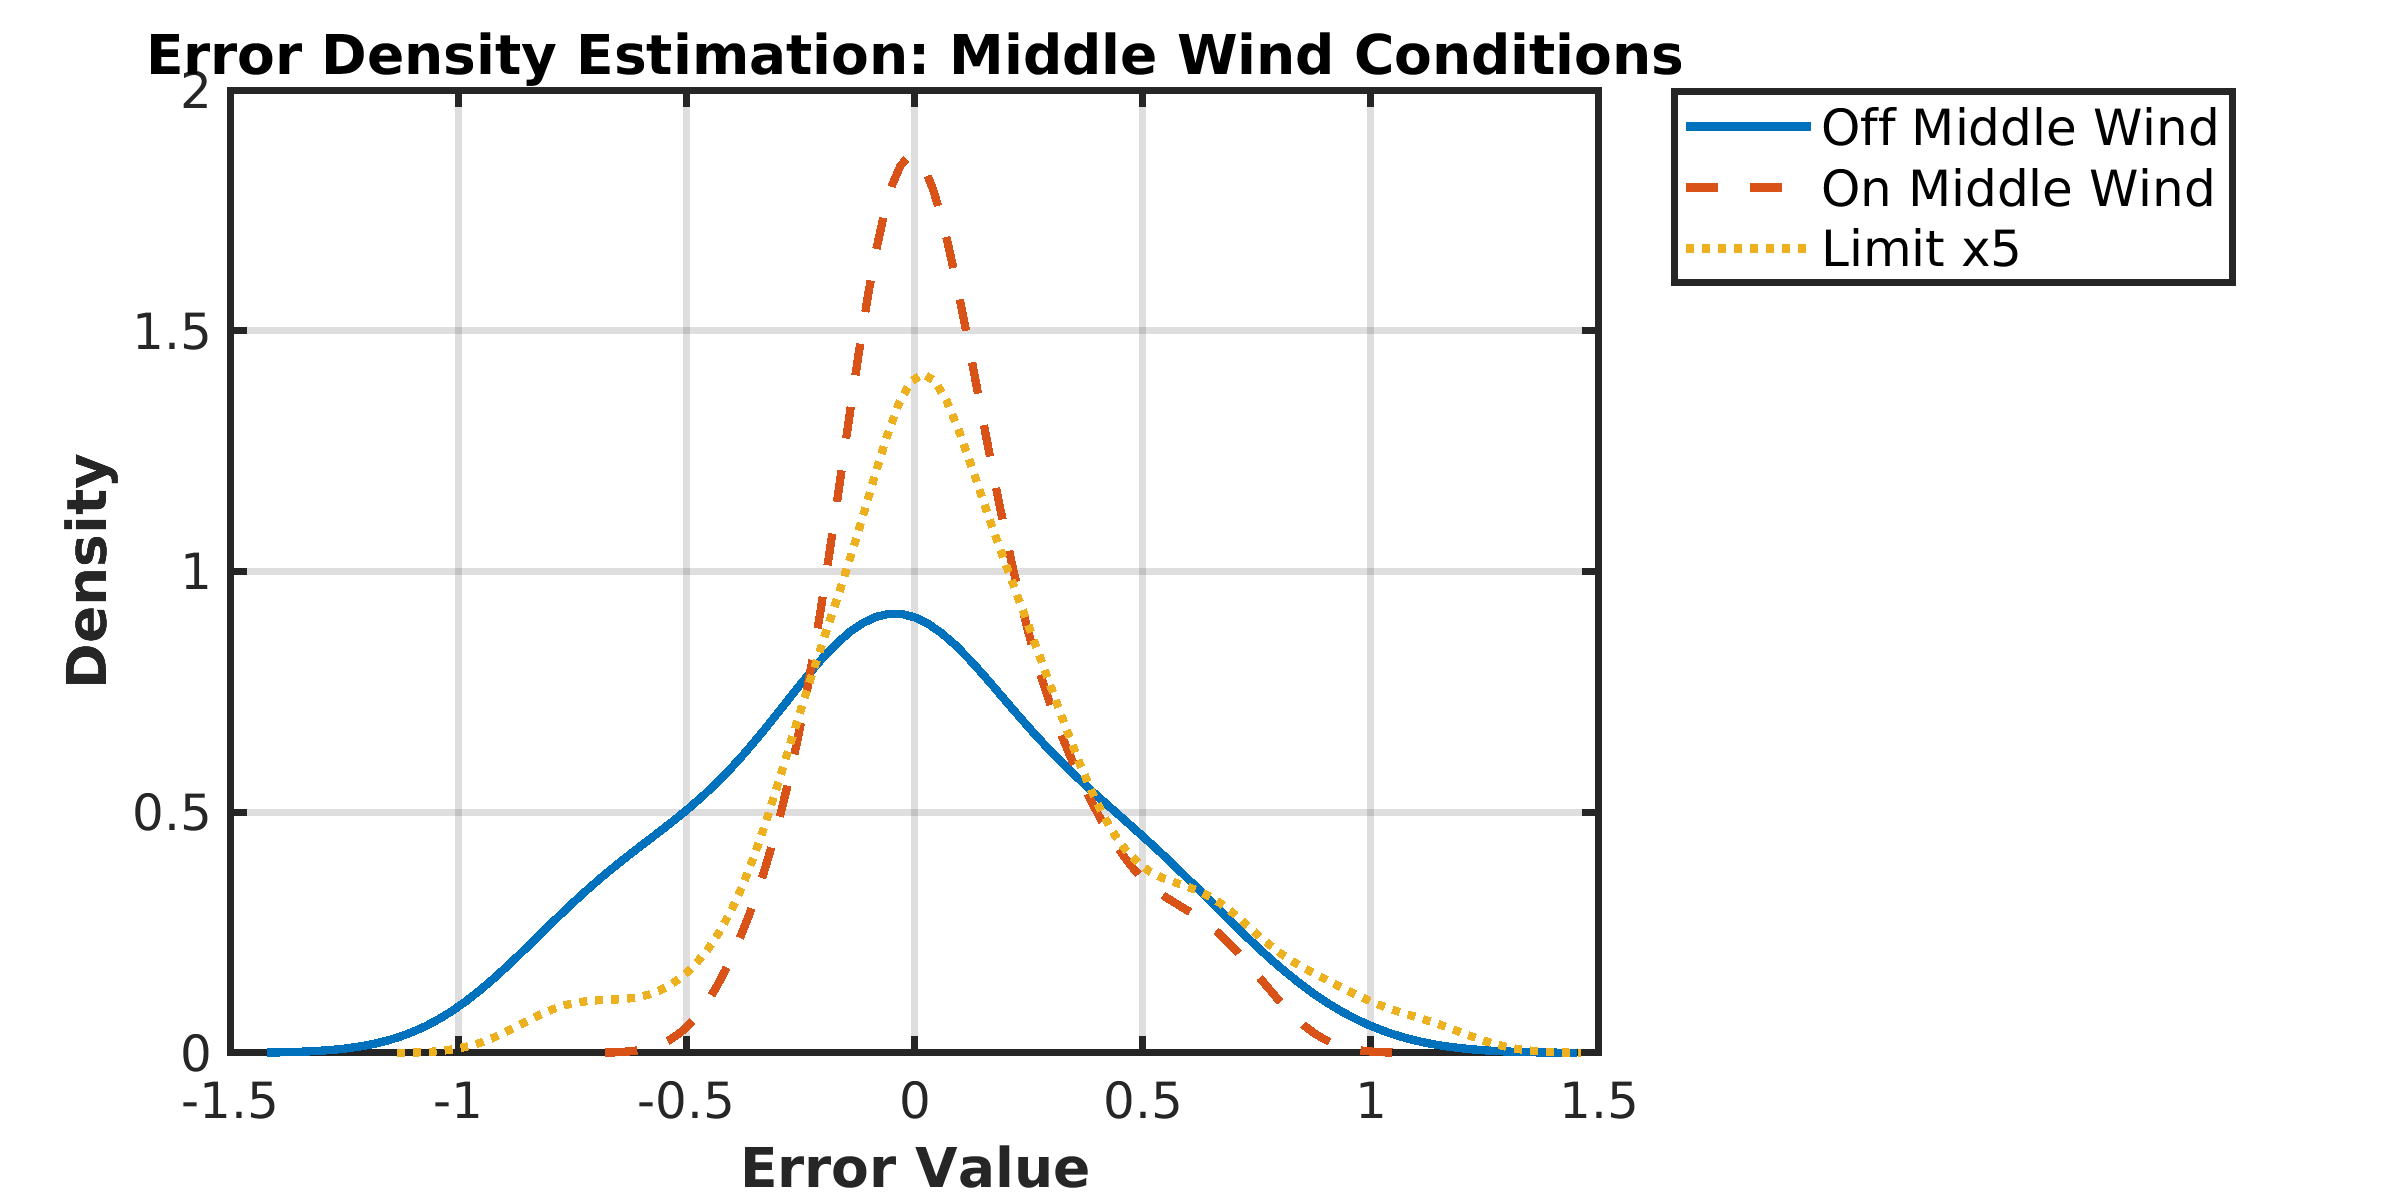
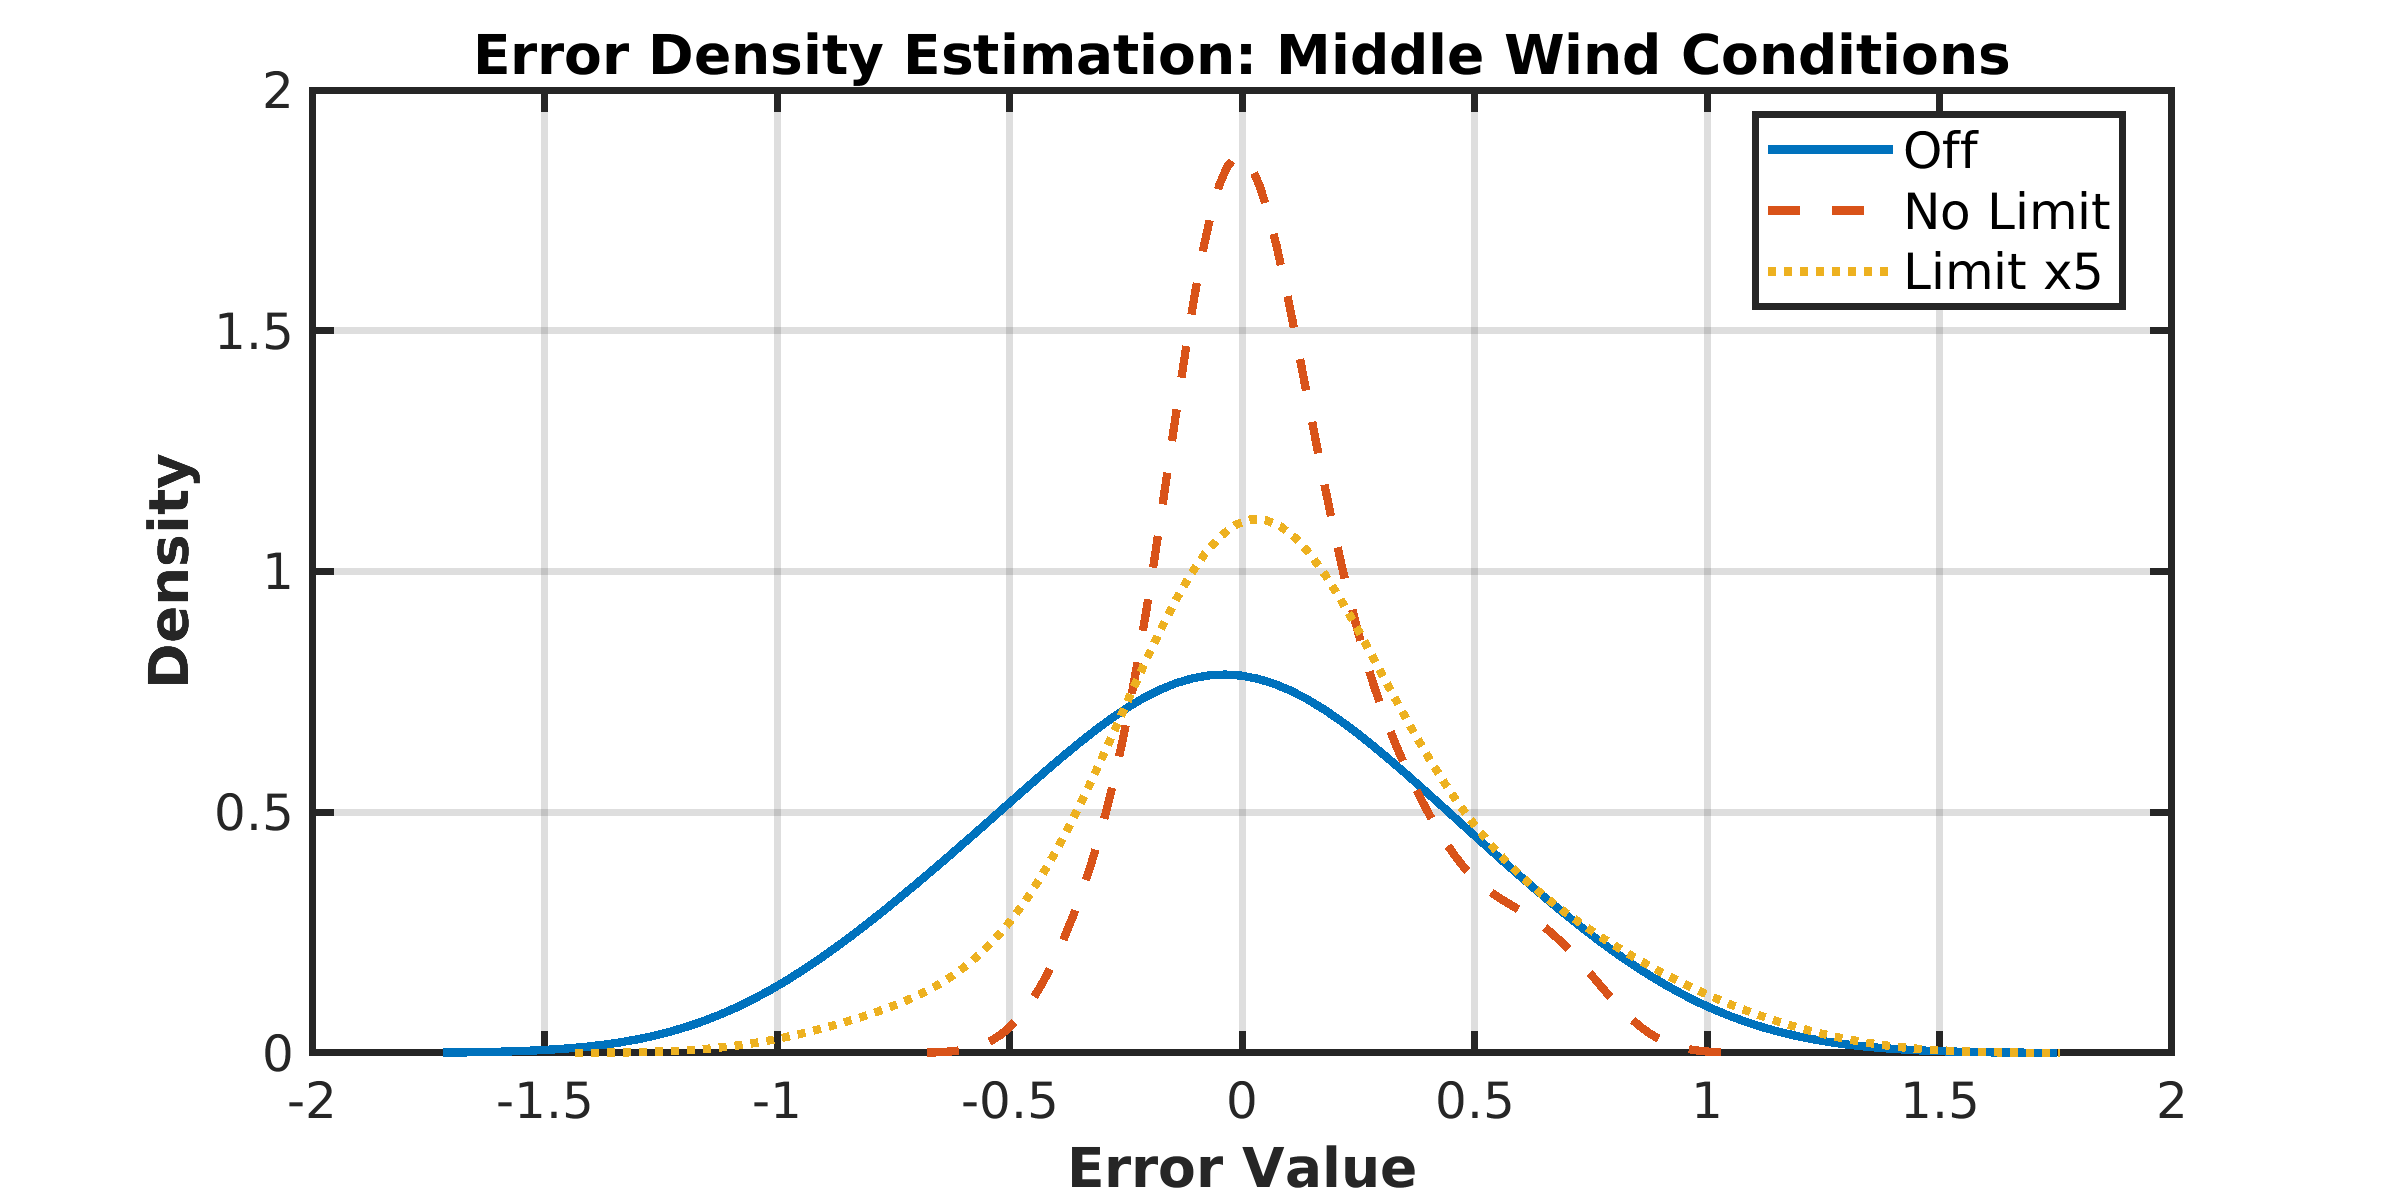
9月1号下午四点半

diff --git a/error_density_strongwind.m b/error_density_strongwind.m
@@ -30,7 +30,10 @@ plot(xi_on_5hat_strongwind, f_on_5hat_strongwind, 'LineWidth', 2, 'LineStyle', '
 xlabel('Error Value', 'FontSize', 12, 'FontWeight', 'bold');  % x轴标签
 ylabel('Density', 'FontSize', 12, 'FontWeight', 'bold');      % y轴标签
 title('Error Density Estimation: Strong Wind Conditions', 'FontSize', 14, 'FontWeight', 'bold');  % 图表标题
-legend('Off Strong Wind', 'Limit x500', 'Limit x5', 'FontSize', 12, 'Location', 'northeastoutside');  % 调整图例位置至图形外部
+
+% 修改图例标注并确保显示
+legend({'Off', 'No Limit', 'Limit x5'}, 'FontSize', 12, 'Location', 'best');  % 使用花括号确保图例显示，位置设置为最佳
+
 set(gca, 'LineWidth', 1.5, 'FontSize', 12);  % 设置坐标轴线宽和字体大小
 grid on;  % 添加网格线
 
@@ -41,9 +44,6 @@ set(gcf, 'PaperSize', [8 4]);  % 设置PNG文件的页面大小与图表相同
 
 % 保存为高质量PNG格式
 print(gcf, 'ErrorDensityEstimation_strongwind_5hat_500hat.png', '-dpng', '-r300');  % 修改为PNG格式
-
-% 关闭图形窗口（如果不再需要进一步编辑）
-
 
 % 计算方差
 var_off_strongwind = var(error_x_off_strongwind);

diff --git a/RMSE_middlewind.m b/RMSE_middlewind.m
@@ -12,7 +12,7 @@ rmse_on_middlewind = sqrt(mean(error_x_on_middlewind.^2));     % 计算控制开
 
 % 创建直方图数据，调整顺序以确保5hat在中间
 rmse_data = [rmse_off_middlewind, rmse_on_5hat_middlewind, rmse_on_middlewind];  % 将RMSE值放入数组
-labels = {'Off Middle Wind', 'Limit x5', 'On Middle Wind'};  % 更新后的X轴标签
+labels = {'Off ', 'Limit x5', 'No Limit'};  % 更新后的X轴标签
 
 % 绘制直方图
 figure;
@@ -32,7 +32,7 @@ set(gcf, 'PaperSize', [8 4]);  % 设置PNG文件的页面大小与图表相同
 print(gcf, 'RMSErrorComparison_middlewind_limit_x5.png', '-dpng', '-r300');  % 修改为PNG格式
 
 % 关闭图形窗口（如果不再需要进一步编辑）
-close(gcf);
+
 
 % 计算on_middlewind状态的RMSE是off_middlewind状态RMSE的百分比
 percentage_rmse_on_middlewind = (rmse_on_middlewind / rmse_off_middlewind) * 100;
